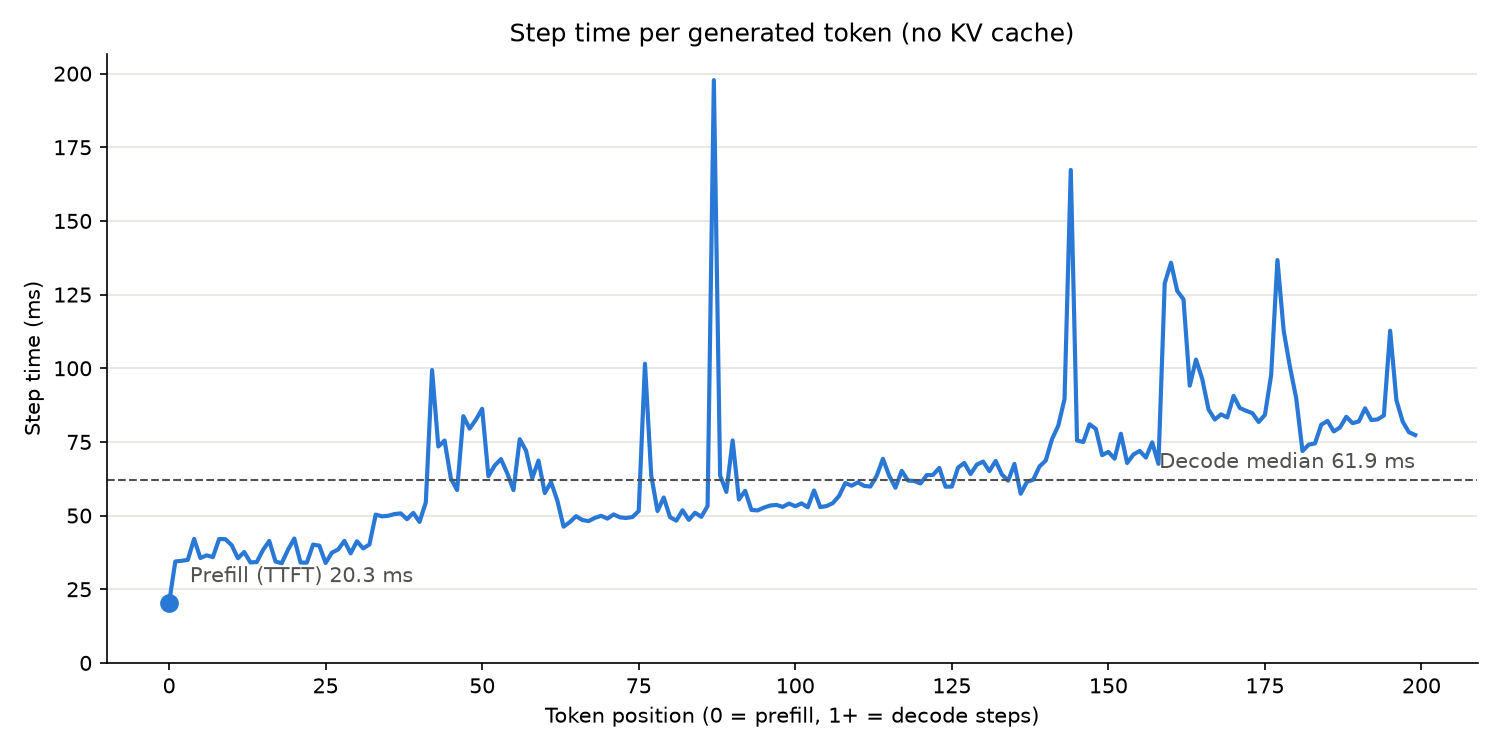
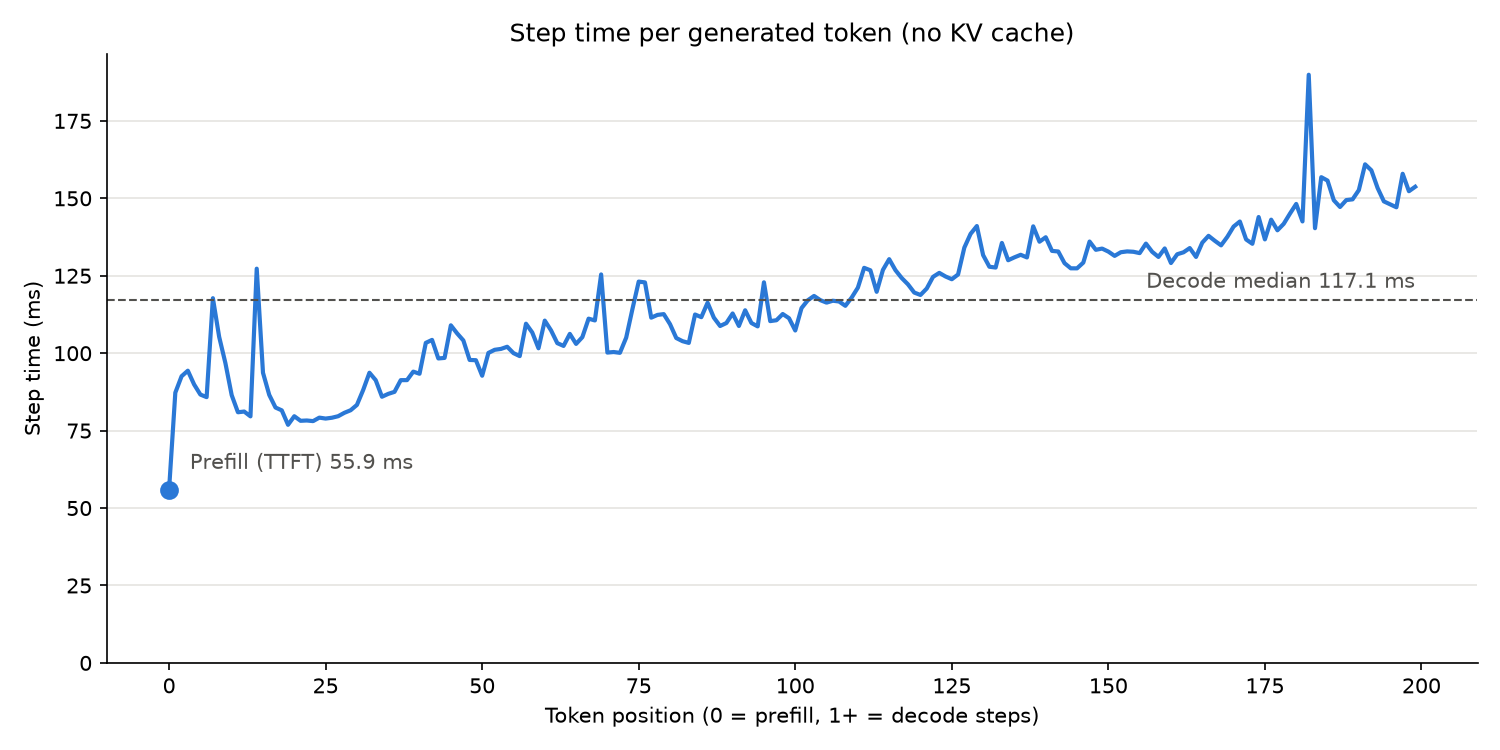
feat: added 4x longer prompt and fixed prompts formatting

diff --git a/Lab 1/load.py b/Lab 1/load.py
@@ -27,11 +27,30 @@ model.to(device)
 print("Running on:", device)
 
 #Tokenize the input text into PyTorch tensors
-prompt=" Inference only runs the forward pass, " \
-"the weights are frozen, to produce new tokens we dont have yet. " \
-"We produce them once at a time, and each one depends on the one before it"
+prompt=(
+    " Inference only runs the forward pass, "
+    "the weights are frozen, to produce new tokens we dont have yet. "
+    "We produce them once at a time, and each one depends on the one before it"
+)
 
-input_ids=tokenizer.encode(prompt, return_tensors="pt").to(device)
+four_time_longer_prompt=(
+    "Inference is the process where a trained language model uses its "
+    "existing knowledge to generate new text. During inference, the "
+    "model only performs the forward pass, meaning the input is passed "
+    "through the neural network to calculate predictions and determine "
+    "which token should come next. The model's weights remain frozen, "
+    "so they are not updated or modified during this process. Unlike "
+    "training, where the model learns by adjusting its weights based on "
+    "errors, inference simply uses the knowledge the model has already "
+    "learned. When generating a response, the model produces one new "
+    "token at a time. Each token is selected based on the input context "
+    "and the tokens generated before it. After generating a token, the "
+    "model adds it to the existing sequence and uses the updated context "
+    "to predict the next token. This process repeats until generation "
+    "stops."
+)
+
+input_ids=tokenizer.encode(four_time_longer_prompt, return_tensors="pt").to(device)
 
 #Feed the tokens to the model and generate new tokens : TTFT+199*TPOT
 #outputs=model.generate(**inputs, max_new_tokens=200)
